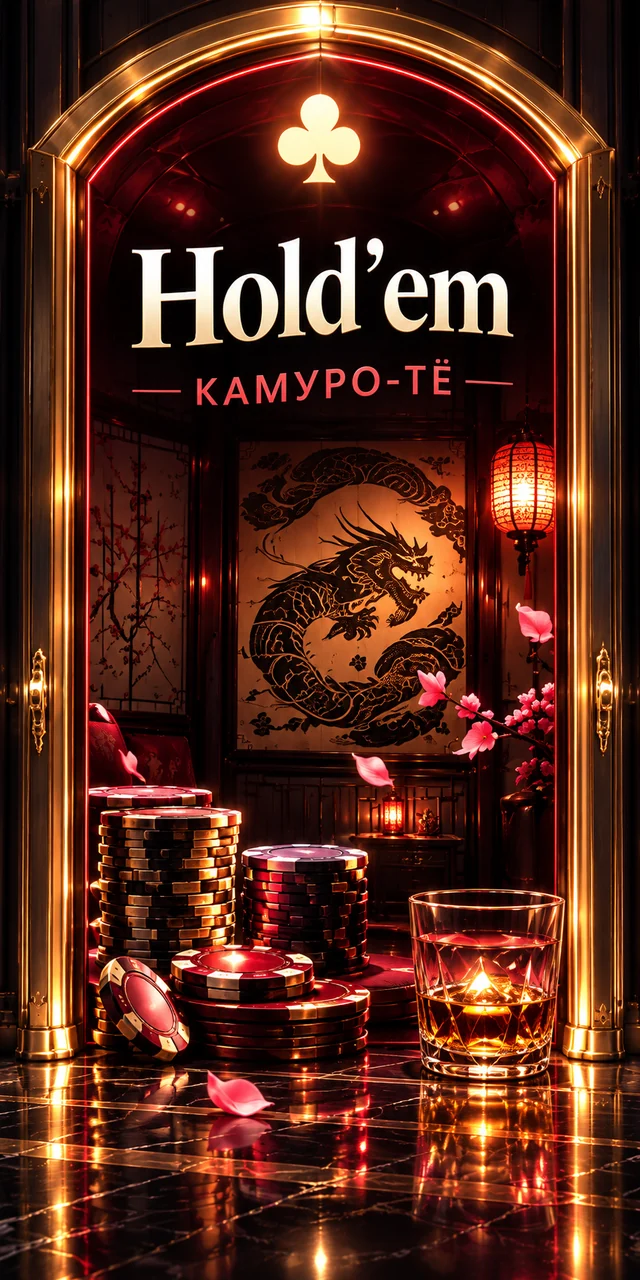
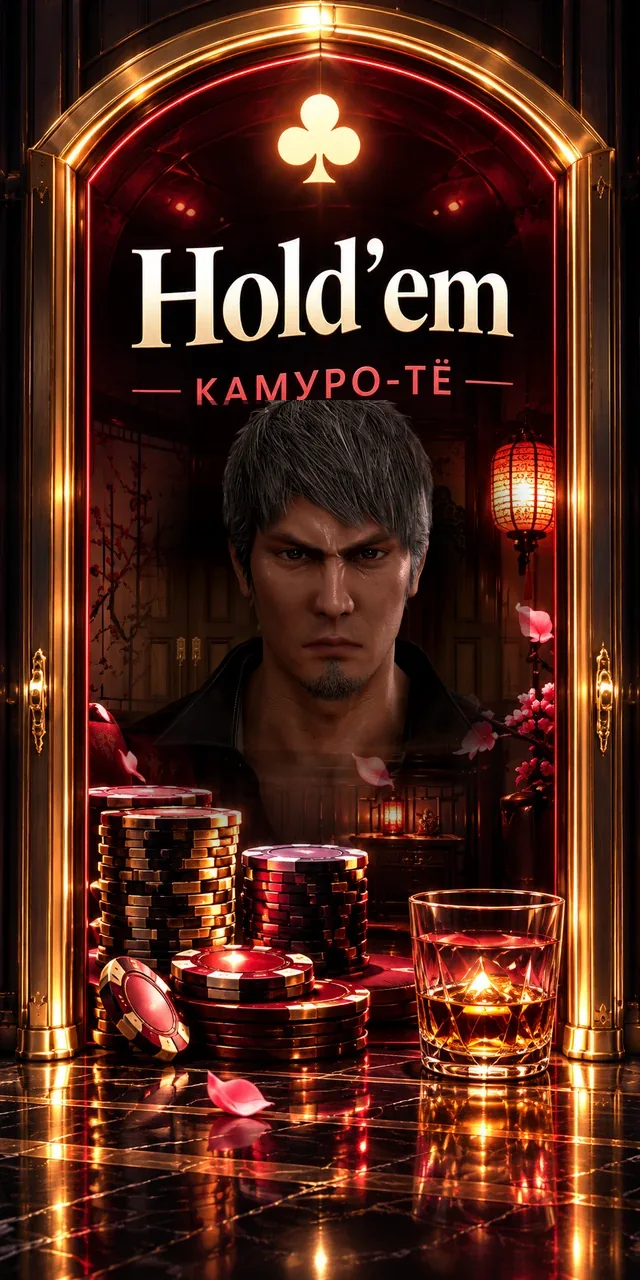
feat(miniapp): hub-style room shell, Blackjack scene and new portal heroes
Rooms get a full-screen animated scene per theme, a hub-style header with
balance pill, glass panels and the hub's pause and reduced-motion rules;
technical labels and the in-room ranking/history are removed. Blackjack
uses the approved police-perimeter backdrop with flashing lights and a
glowing table. Portals: Tachanka for Slot, Kiryu (Infinite Wealth) for
Hold'em.

Claude-Session: https://claude.ai/code/session_01RKNXNesPxZVxkKC6TQpiik

Changed region(s): [[0.1562, 0.3125, 0.8438, 0.6562]]

diff --git a/apps/miniapp/src/lib/components/RoomShell.svelte b/apps/miniapp/src/lib/components/RoomShell.svelte
@@ -1,11 +1,20 @@
+<script lang="ts" module>
+  export type RoomTheme = 'slot' | 'blackjack' | 'holdem';
+</script>
+
 <script lang="ts">
+  import { base } from '$app/paths';
   import type { MotionState } from '$lib/game/motion';
   import type { ConnectionStatus } from '$lib/state/session.svelte';
   import type { RoomSnapshot } from '$lib/state/room.svelte';
 
   export let room: RoomSnapshot;
+  export let theme: RoomTheme = 'slot';
   export let connection: ConnectionStatus = 'demo';
   export let motion: MotionState = 'idle';
+  export let balance = 0;
+  // Пауза из хаба или системное «уменьшить движение»: фон и эффекты замирают.
+  export let quiet = false;
   export let onBack: () => void = () => undefined;
   export let onResync: () => void = () => undefined;
 
@@ -16,44 +25,105 @@
     syncing: 'SYNC',
     offline: 'OFFLINE'
   } as const;
+
+  // Сцена каждой комнаты: фон из утверждённых концептов, концепция комнат не меняется.
+  const scenes: Record<RoomTheme, { kicker: string; title: string; backdrop: string | null }> = {
+    slot: { kicker: 'RAINBOW SIX · SIEGE', title: 'Slot Siege', backdrop: null },
+    blackjack: { kicker: 'GFL · SECTOR 09', title: 'Blackjack', backdrop: 'blackjack/room.webp' },
+    holdem: { kicker: '神室町 · HEADS-UP', title: 'Hold’em', backdrop: 'holdem/scene/kamurocho-gate.webp' }
+  };
+  $: scene = scenes[theme];
 </script>
 
-<main class="room-shell" data-motion={motion} data-testid="room-shell">
+<main class="room-shell theme-{theme}" class:quiet data-motion={motion} data-testid="room-shell" data-theme={theme} aria-label={room.title}>
+  <div class="scene" aria-hidden="true">
+    {#if scene.backdrop}<img class="backdrop" src={`${base}/${scene.backdrop}`} alt="" decoding="async" />{/if}
+    <div class="fx fx-a"></div>
+    <div class="fx fx-b"></div>
+    <div class="shade"></div>
+  </div>
+
   <header class="room-topbar">
-    <button class="icon-button" on:click={onBack} aria-label="Назад к комнатам">←</button>
+    <button class="back" on:click={onBack} aria-label="Назад к комнатам">
+      <img src={`${base}/hub/icons/arrow-right.svg`} width="22" height="22" alt="" />
+    </button>
     <div class="room-heading">
-      <span>ROOM · {room.rulesetVersion}</span>
-      <h1>{room.title}</h1>
+      <span>{scene.kicker}</span>
+      <h1>{scene.title}</h1>
     </div>
-    <button class="connection-button" on:click={onResync} data-testid="resync-button">
-      <span class:active={connection === 'connected'}></span>
-      {connectionLabel[connection]}
+    <button class="balance" on:click={onResync} data-testid="resync-button" aria-label={`Баланс ${balance} JG, ${connectionLabel[connection]}. Синхронизировать комнату`}>
+      <img src={`${base}/hub/icons/diamond.svg`} width="20" height="20" alt="" />
+      <span>
+        <small><i class:active={connection === 'connected'}></i>{connectionLabel[connection]}</small>
+        <strong>{balance.toLocaleString('ru-RU')} <em>JG</em></strong>
+      </span>
     </button>
   </header>
 
   <section class="room-stage">
-    <div class="stage-glow" aria-hidden="true"></div>
     <slot></slot>
   </section>
 </main>
 
 <style>
-  .room-shell { display: grid; gap: 14px; min-height: 100dvh; }
-  .room-topbar { display: grid; grid-template-columns: 40px 1fr auto; align-items: center; gap: 10px; }
-  .icon-button, .connection-button { border: 1px solid var(--line); border-radius: 12px; background: rgb(255 247 237 / 6%); color: var(--ivory); cursor: pointer; transition: transform 220ms var(--ease-smooth), border-color 220ms var(--ease-smooth), background 220ms var(--ease-smooth); will-change: transform; }
-  .icon-button:hover, .connection-button:hover { transform: translateY(-1px); border-color: rgb(231 187 112 / 42%); background: rgb(255 247 237 / 9%); }
-  .icon-button:active, .connection-button:active { transform: translateY(1px) scale(.99); }
-  .icon-button { width: 40px; height: 40px; font-size: 20px; }
+  .room-shell { position: relative; isolation: isolate; display: grid; align-content: start; gap: 14px; min-height: 100dvh; }
+
+  /* Сцена: фон во весь экран с медленным «дыханием», как в хабе. */
+  .scene, .scene > * { position: fixed; inset: 0; pointer-events: none; }
+  .scene { z-index: -1; overflow: hidden; background: #07090c; }
+  .backdrop { width: 100%; height: 100%; object-fit: cover; animation: scene-drift 28s ease-in-out infinite; }
+  .shade { background: linear-gradient(180deg, rgb(5 6 9 / 50%) 0%, rgb(5 6 9 / 12%) 28%, rgb(5 6 9 / 55%) 62%, rgb(5 6 9 / 90%) 100%); }
+
+  /* Blackjack: заброшенное здание за оцеплением, отсветы мигалок. */
+  .theme-blackjack .backdrop { object-position: 60% 50%; opacity: .95; filter: saturate(.95) brightness(1.08); }
+  .theme-blackjack .fx-a { background: radial-gradient(46% 20% at 30% 50%, rgb(255 40 60 / 34%), transparent 70%); animation: police-red 1.8s steps(1) infinite; }
+  .theme-blackjack .fx-b { background: radial-gradient(46% 20% at 72% 48%, rgb(50 110 255 / 34%), transparent 70%); animation: police-blue 1.8s steps(1) infinite; }
+
+  /* Slot Siege: тактический холод, дым и медленные лучи прожекторов. */
+  .theme-slot .scene { background: radial-gradient(120% 70% at 50% 0%, #1d2a33 0%, #0b1116 55%, #06090c 100%); }
+  .theme-slot .fx-a { inset: -30% -60%; background: conic-gradient(from 180deg at 50% 0%, transparent 0deg, rgb(205 228 240 / 10%) 8deg, transparent 18deg, transparent 340deg, rgb(205 228 240 / 8%) 350deg, transparent 360deg); animation: searchlight 14s ease-in-out infinite alternate; transform-origin: 50% 0%; }
+  .theme-slot .fx-b { background: radial-gradient(60% 30% at 20% 85%, rgb(170 190 200 / 12%), transparent 70%), radial-gradient(55% 28% at 80% 75%, rgb(170 190 200 / 10%), transparent 70%); filter: blur(18px); animation: smoke 22s ease-in-out infinite alternate; }
+
+  /* Hold'em: ворота Камуро-тё, мерцающий неон. */
+  .theme-holdem .backdrop { object-position: 50% 40%; opacity: .62; filter: blur(2px) saturate(1.1); transform: scale(1.06); }
+  .theme-holdem .fx-a { background: radial-gradient(70% 34% at 50% 18%, rgb(255 46 96 / 22%), transparent 70%); animation: neon 6s linear infinite; }
+  .theme-holdem .fx-b { background: radial-gradient(60% 30% at 50% 95%, rgb(201 162 74 / 16%), transparent 70%); }
+
+  .quiet .scene * { animation-play-state: paused; }
+
+  /* Шапка в стиле хаба. */
+  .room-topbar { display: grid; grid-template-columns: 44px minmax(0, 1fr) auto; align-items: center; gap: 10px; padding-top: env(safe-area-inset-top); }
+  .back { display: grid; place-items: center; width: 44px; height: 44px; border: 1px solid #b8955d; border-radius: 50%; background: #0a0e14c9; cursor: pointer; transition: transform .2s ease, background .2s ease; }
+  .back img { transform: rotate(180deg); }
+  .back:hover { background: #241b13; transform: translateX(-2px); }
+  .back:active { transform: scale(.94); }
   .room-heading { min-width: 0; }
-  .room-heading span { color: var(--muted); font-size: 9px; letter-spacing: 0.13em; }
-  h1 { margin: 3px 0 0; font-size: 20px; letter-spacing: -0.04em; }
-  .connection-button { display: inline-flex; align-items: center; gap: 7px; padding: 8px 10px; color: var(--muted-strong); font-size: 9px; font-weight: 800; letter-spacing: 0.09em; }
-  .connection-button span { width: 6px; height: 6px; border-radius: 50%; background: var(--brass-400); }
-  .connection-button span.active { background: var(--success); }
-  .room-stage { position: relative; display: grid; align-content: start; min-height: 580px; overflow: hidden; padding: 20px 15px 15px; border: 1px solid var(--line); border-radius: var(--radius-xl); background: linear-gradient(145deg, rgb(255 255 255 / 5%), rgb(255 255 255 / 1%)); box-shadow: var(--shadow-deep); }
-  .stage-glow { position: absolute; top: -100px; right: -70px; width: 240px; height: 240px; border-radius: 50%; background: rgb(143 53 89 / 23%); filter: blur(45px); pointer-events: none; animation: breathe 5s ease-in-out infinite; will-change: transform, opacity; }
-  .room-stage :global(.game-room) { animation: roomContentIn 420ms var(--ease-enter) both; }
-  @keyframes breathe { 0%, 100% { transform: scale(0.88); opacity: 0.6; } 50% { transform: scale(1.12); opacity: 1; } }
-  @keyframes roomContentIn { from { opacity: 0; transform: translate3d(0, 9px, 0); } to { opacity: 1; transform: translate3d(0, 0, 0); } }
-  @media (min-width: 720px) { .room-stage { padding: 30px; } }
+  .room-heading span { display: block; color: #f8d38b; font-size: 9px; font-weight: 700; letter-spacing: .2em; white-space: nowrap; overflow: hidden; text-overflow: ellipsis; }
+  h1 { margin: 3px 0 0; color: #fff1ca; font: 500 clamp(22px, 6.6vw, 30px)/1.05 Georgia, 'Times New Roman', serif; letter-spacing: -.03em; }
+  .balance { display: flex; align-items: center; gap: 8px; min-height: 44px; padding: 6px 12px 6px 10px; border: 1px solid #b8955d; border-radius: 22px; background: #0c0f16e6; color: #fff4d9; cursor: pointer; transition: transform .2s ease, box-shadow .2s ease; }
+  .balance:hover { box-shadow: 0 0 18px #d5903b44; }
+  .balance:active { transform: scale(.97); }
+  .balance > span { display: grid; gap: 3px; text-align: left; }
+  .balance small { display: flex; align-items: center; gap: 5px; color: #d8d1da; font-size: 8px; letter-spacing: .08em; }
+  .balance i { width: 6px; height: 6px; border-radius: 50%; background: #e7bb70; }
+  .balance i.active { background: #8ee4b6; box-shadow: 0 0 6px #8ee4b6; }
+  .balance strong { font-size: 15px; line-height: 1; white-space: nowrap; }
+  .balance em { color: #f8d38b; font-size: 11px; font-style: normal; }
+
+  /* Сцена игры — без глухой карточки: комната «висит» на фоне. */
+  .room-stage { position: relative; display: grid; align-content: start; }
+  .room-stage :global(.game-room) { animation: roomContentIn 460ms cubic-bezier(.2, .8, .2, 1) both; }
+
+  @keyframes scene-drift { 0%, 100% { transform: scale(1.04) translate3d(0, 0, 0); } 50% { transform: scale(1.08) translate3d(-1.5%, -1%, 0); } }
+  @keyframes police-red { 0%, 49% { opacity: 1; } 50%, 100% { opacity: .15; } }
+  @keyframes police-blue { 0%, 49% { opacity: .15; } 50%, 100% { opacity: 1; } }
+  @keyframes searchlight { from { transform: rotate(-14deg); } to { transform: rotate(14deg); } }
+  @keyframes smoke { from { transform: translate3d(-4%, 0, 0) scale(1); } to { transform: translate3d(4%, -3%, 0) scale(1.12); } }
+  @keyframes neon { 0%, 100% { opacity: .85; } 46% { opacity: .85; } 47% { opacity: .35; } 48% { opacity: .9; } 72% { opacity: .7; } }
+  @keyframes roomContentIn { from { opacity: 0; transform: translate3d(0, 14px, 0) scale(.985); } to { opacity: 1; transform: none; } }
+
+  @media (prefers-reduced-motion: reduce) {
+    .scene *, .room-stage :global(.game-room) { animation: none !important; }
+    .back, .balance { transition: none; }
+  }
 </style>

diff --git a/apps/miniapp/src/lib/rooms/BlackjackRoom.svelte b/apps/miniapp/src/lib/rooms/BlackjackRoom.svelte
@@ -98,11 +98,6 @@
   $: playerTotal = intOrNull(ps.player_total);
   $: dealerTotal = 'dealer_total' in ps ? intOrNull(ps.dealer_total) : null;
   $: walletBalance = intOrNull(ps.wallet_balance);
-  $: ruleset =
-    typeof ps.ruleset_version === 'string'
-      ? (ps.ruleset_version as string)
-      : (snapshot?.rulesetVersion ?? 'blackjack-gfl-skeleton-1');
-  $: stateVersion = snapshot?.stateVersion ?? 0;
 
   // Номер раздачи: сервер его не присылает, считаем по входу в новую игру из ожидания/итога.
   // Карты привязаны к нему ключом — на каждой раздаче они монтируются заново и снова «прилетают».
@@ -190,8 +185,6 @@
 >
   <div class="room-intro">
     <div>
-      <span class="room-kicker">GFL POST-COLLAPSE · SECTOR 09 PERIMETER</span>
-      <h2>Blackjack</h2>
       <p>{isDemo ? 'Заброшенный корпус за полицейским периметром. Демо-раздачу и результат показывает клиент.' : 'Заброшенный корпус за полицейским периметром. Раздаёт только сервер.'}</p>
     </div>
     <span class="bet-chip" data-testid="blackjack-wallet">
@@ -343,7 +336,6 @@
   {/if}
 
   <div class="bj-status" data-testid="blackjack-status" aria-live="polite">
-    <span>PHASE {gamePhase} · {ruleset} · v{stateVersion}</span>
     <strong>
       {busy
         ? isDemo ? 'Ход демо-раунда' : 'Ожидаем сервер…'
@@ -383,14 +375,14 @@
 
 <style>
   .game-room { position: relative; z-index: 1; display: grid; gap: 14px; }
-  .room-intro { display: flex; justify-content: space-between; gap: 18px; }
-  .room-kicker { color: #78d3a2; font-size: 9px; font-weight: 800; letter-spacing: 0.13em; }
-  h2 { margin: 6px 0 5px; font-size: clamp(27px, 8vw, 38px); letter-spacing: -0.06em; }
-  p { max-width: 250px; margin: 0; color: var(--muted); font-size: 12px; line-height: 1.45; }
-  .bet-chip { height: fit-content; padding: 7px 9px; border: 1px solid rgb(142 228 182 / 30%); border-radius: 999px; color: #a4f0c4; font-size: 10px; font-weight: 800; white-space: nowrap; }
+  .room-intro { display: flex; align-items: center; justify-content: space-between; gap: 14px; }
+  p { max-width: 260px; margin: 0; color: #d6d0c8; font-size: 12px; line-height: 1.45; text-shadow: 0 1px 6px rgb(0 0 0 / 80%); }
+  .bet-chip { height: fit-content; padding: 7px 10px; border: 1px solid rgb(142 228 182 / 40%); border-radius: 999px; background: rgb(6 20 18 / 70%); color: #a4f0c4; font-size: 10px; font-weight: 800; white-space: nowrap; backdrop-filter: blur(8px); }
   .perimeter-tape { overflow: hidden; border-radius: 8px; background: repeating-linear-gradient(-45deg, #e7bb70 0 14px, #14141c 14px 28px); padding: 3px; }
   .perimeter-tape span { display: block; padding: 5px 10px; border-radius: 6px; background: rgb(11 11 17 / 88%); color: #e7bb70; font-size: 9px; font-weight: 800; letter-spacing: 0.16em; text-align: center; }
-  .felt-table { position: relative; display: grid; align-content: space-between; gap: 14px; min-height: 368px; overflow: hidden; padding: 25px 20px; border: 1px solid rgb(142 228 182 / 32%); border-radius: 42% / 18%; background: radial-gradient(ellipse at 50% 18%, rgb(58 74 92 / 55%), transparent 55%), radial-gradient(ellipse at center, #174a40, #0a2829 72%); box-shadow: inset 0 0 40px rgb(0 0 0 / 40%), 0 18px 42px rgb(0 0 0 / 25%); }
+  .felt-table { position: relative; display: grid; align-content: space-between; gap: 14px; min-height: 368px; overflow: hidden; padding: 25px 20px; border: 1px solid rgb(142 228 182 / 38%); border-radius: 42% / 18%; background: radial-gradient(ellipse at 50% 18%, rgb(58 74 92 / 45%), transparent 55%), radial-gradient(ellipse at center, rgb(23 74 64 / 88%), rgb(10 40 41 / 92%) 72%); box-shadow: inset 0 0 40px rgb(0 0 0 / 40%), 0 0 0 1px rgb(0 0 0 / 30%), 0 18px 50px rgb(0 0 0 / 55%), 0 0 60px rgb(64 196 150 / 14%); backdrop-filter: blur(6px); }
+  /* Медленный блик по сукну — как живой свет лампы над столом. */
+  .felt-table::after { content: ''; position: absolute; inset: -40% -60%; background: linear-gradient(105deg, transparent 42%, rgb(255 240 200 / 7%) 50%, transparent 58%); animation: feltSheen 9s ease-in-out infinite; pointer-events: none; }
   .table-orbit { position: absolute; inset: 16px; border: 1px solid rgb(142 228 182 / 12%); border-radius: 42% / 20%; pointer-events: none; }
   .orbit-two { inset: 28px; border-color: rgb(231 187 112 / 12%); }
   .dealer-line { position: relative; z-index: 1; display: flex; align-items: center; gap: 9px; justify-self: center; padding: 6px 12px 6px 6px; border: 1px solid rgb(255 247 237 / 16%); border-radius: 999px; background: rgb(11 11 17 / 55%); color: rgb(255 247 237 / 80%); font-size: 9px; font-weight: 800; letter-spacing: 0.12em; }
@@ -426,16 +418,18 @@
   .total { color: rgb(255 247 237 / 72%); font-size: 13px; font-weight: 800; }
   .total.bright { color: var(--brass-300); }
   .table-mark { position: absolute; top: 50%; left: 50%; color: rgb(231 187 112 / 15%); font-size: 58px; font-weight: 800; transform: translate(-50%, -50%); }
-  .bet-panel { --bet-accent: var(--brass-300); --bet-line: var(--line); --bet-ink: var(--ivory); display: grid; gap: 10px; padding: 13px 14px; border: 1px solid var(--line); border-radius: var(--radius-md); background: rgb(255 247 237 / 4%); }
+  .bet-panel { --bet-accent: var(--brass-300); --bet-line: rgb(255 247 237 / 16%); --bet-ink: var(--ivory); display: grid; gap: 10px; padding: 14px; border: 1px solid rgb(231 187 112 / 26%); border-radius: 20px; background: rgb(10 12 16 / 72%); backdrop-filter: blur(12px); box-shadow: 0 14px 40px rgb(0 0 0 / 45%); }
   .bet-hint { max-width: none; color: #ff9cae; font-size: 11px; }
   .deal-action { min-height: 52px; border: 0; border-radius: 15px; background: linear-gradient(120deg, var(--brass-300), #c98f4e); color: #2a1820; font: inherit; font-size: 14px; font-weight: 850; cursor: pointer; }
   .deal-action:disabled { cursor: not-allowed; filter: saturate(0.6); opacity: 0.75; }
   .action-grid { display: grid; grid-template-columns: repeat(3, 1fr); gap: 8px; }
-  .action-grid button { min-height: 54px; border: 1px solid var(--line); border-radius: 13px; background: rgb(255 247 237 / 6%); color: var(--ivory); font-weight: 800; font-size: 13px; cursor: pointer; transition: transform 160ms ease, border-color 160ms ease; }
+  .action-grid button { min-height: 58px; border: 1px solid rgb(255 247 237 / 18%); border-radius: 16px; background: rgb(10 12 16 / 72%); color: var(--ivory); font-weight: 800; font-size: 14px; letter-spacing: .04em; cursor: pointer; backdrop-filter: blur(10px); transition: transform 180ms ease, border-color 180ms ease, box-shadow 180ms ease, background 180ms ease; }
+  .action-grid button:hover:not(:disabled) { transform: translateY(-2px); border-color: rgb(231 187 112 / 60%); box-shadow: 0 6px 22px rgb(213 144 59 / 28%); }
+  .action-grid button:active:not(:disabled) { transform: translateY(1px) scale(.97); }
   .action-grid button small { display: block; color: var(--muted); font-size: 9px; font-weight: 700; }
   .action-grid button:disabled { cursor: wait; opacity: 0.65; }
-  .action-grid .action-primary { border-color: rgb(231 187 112 / 55%); }
-  .bj-status { display: flex; align-items: center; justify-content: space-between; gap: 10px; color: var(--muted); font-size: 9px; font-weight: 800; letter-spacing: 0.08em; text-transform: uppercase; }
+  .action-grid .action-primary { border-color: rgb(231 187 112 / 70%); background: linear-gradient(180deg, rgb(239 192 107 / 22%), rgb(10 12 16 / 75%)); box-shadow: 0 0 18px rgb(213 144 59 / 22%); }
+  .bj-status { display: flex; align-items: center; justify-content: center; gap: 10px; color: var(--muted); font-size: 9px; font-weight: 800; letter-spacing: 0.08em; text-transform: uppercase; }
   .bj-status strong { color: var(--brass-300); }
   .demo-note { max-width: none; padding: 10px 12px; border: 1px dashed rgb(231 187 112 / 48%); border-radius: 12px; background: rgb(231 187 112 / 8%); color: var(--brass-300); font-size: 11px; font-weight: 800; line-height: 1.45; }
   .bj-error { max-width: none; padding: 11px 12px; border: 1px solid rgb(255 156 174 / 45%); border-radius: 12px; background: rgb(255 156 174 / 8%); color: #ffc2cd; font-size: 11px; line-height: 1.45; }
@@ -449,13 +443,13 @@
   .settle-balance { color: var(--success); font-size: 9px; font-weight: 800; letter-spacing: 0.1em; }
   .rules-line { max-width: none; color: var(--muted); font-size: 10px; letter-spacing: 0.04em; }
   button:focus-visible { outline: 2px solid var(--brass-300); outline-offset: 3px; }
+  @keyframes feltSheen { 0%, 100% { transform: translateX(-30%); } 50% { transform: translateX(30%); } }
   @keyframes dealCard {
     from { opacity: 0; transform: translate3d(0, calc(-22px + var(--card-offset)), 0) rotate(calc(var(--card-rotation) - 8deg)) scale(0.92); }
     to { opacity: 1; transform: translate3d(0, var(--card-offset), 0) rotate(var(--card-rotation)) scale(1); }
   }
   @media (max-width: 390px) {
     .playing-card { width: 96px; }
-    .action-grid { grid-template-columns: 1fr; }
   }
   @media (min-width: 720px) {
     .playing-card { width: 118px; }
@@ -463,5 +457,6 @@
   @media (prefers-reduced-motion: reduce) {
     .playing-card { animation: none; }
     .action-grid button { transition: none; }
+    .felt-table::after { animation: none; }
   }
 </style>

diff --git a/apps/miniapp/src/lib/components/ResultBand.svelte b/apps/miniapp/src/lib/components/ResultBand.svelte
@@ -14,7 +14,7 @@
       ? 'DEMO ROUND · БЕЗ СЕРВЕРНОГО ПОДТВЕРЖДЕНИЯ'
       : result
         ? `RESOLVING · ${source === 'live' ? 'SERVER' : 'DEMO'} RESULT`
-        : 'RESULT BAND';
+        : 'ИТОГ РАУНДА';
   $: resultHeadline = hasSettledResult
     ? result?.headline
     : result
@@ -40,8 +40,8 @@
     </div>
     {#if hasSettledResult && result?.amount !== undefined}
       <span class="result-amount">{result.amount > 0 ? '+' : ''}{result.amount} <small>JG</small></span>
-    {:else}
-      <span class="result-state">{hasSettledResult ? motion.toUpperCase() : 'RESOLVING'}</span>
+    {:else if result}
+      <span class="result-state" aria-hidden="true"><i></i><i></i><i></i></span>
     {/if}
   </div>
   {#if isServerConfirmed && result?.slotOutcome}
@@ -50,16 +50,22 @@
 </section>
 
 <style>
-  .result-band { display: grid; gap: 8px; padding: 13px 15px; border: 1px solid var(--line); border-radius: var(--radius-md); background: rgb(255 247 237 / 4%); transition: border-color 240ms var(--ease-smooth), background 240ms var(--ease-smooth), transform 240ms var(--ease-smooth); will-change: transform; }
-  .result-band.settled { border-color: rgb(231 187 112 / 48%); background: linear-gradient(105deg, rgb(231 187 112 / 13%), rgb(143 53 89 / 10%)); transform: translateY(-1px); }
-  .result-band.settled { animation: resultConfirmIn 420ms var(--ease-enter) both; }
+  .result-band { display: grid; gap: 8px; padding: 14px 16px; border: 1px solid rgb(255 247 237 / 14%); border-radius: 20px; background: rgb(10 12 16 / 72%); backdrop-filter: blur(12px); box-shadow: 0 14px 40px rgb(0 0 0 / 40%); transition: border-color 240ms var(--ease-smooth), box-shadow 240ms var(--ease-smooth), transform 240ms var(--ease-smooth); }
+  .result-band.settled { border-color: rgb(231 187 112 / 60%); background: linear-gradient(105deg, rgb(231 187 112 / 16%), rgb(10 12 16 / 78%) 60%); box-shadow: 0 0 34px rgb(213 144 59 / 26%), 0 14px 40px rgb(0 0 0 / 40%); animation: resultConfirmIn 460ms var(--ease-enter) both; }
   .result-kicker { color: var(--brass-300); font-size: 9px; font-weight: 800; letter-spacing: 0.15em; }
   .result-row { display: flex; align-items: center; justify-content: space-between; gap: 12px; }
-  strong { font-size: 14px; }
-  p { margin: 3px 0 0; color: var(--muted); font-size: 11px; }
-  .result-amount { color: var(--brass-300); font-size: 19px; font-weight: 800; white-space: nowrap; }
+  strong { font-size: 15px; }
+  p { margin: 3px 0 0; color: #c9c3bb; font-size: 11px; }
+  .result-amount { color: #ffd98f; font-size: 22px; font-weight: 800; white-space: nowrap; text-shadow: 0 0 16px rgb(239 192 107 / 55%); animation: amountPop 520ms var(--ease-spring) both; }
   .result-amount small { font-size: 10px; letter-spacing: 0.12em; }
   .confirmed-balance { color: var(--success); font-size: 9px; font-weight: 800; letter-spacing: 0.1em; }
-  .result-state { color: var(--muted); font-size: 10px; font-weight: 800; letter-spacing: 0.1em; }
-  @keyframes resultConfirmIn { from { opacity: .68; transform: translate3d(0, 7px, 0); } to { opacity: 1; transform: translate3d(0, -1px, 0); } }
+  /* Ожидание исхода: три бегущие точки вместо служебного RESOLVING. */
+  .result-state { display: inline-flex; gap: 5px; }
+  .result-state i { width: 6px; height: 6px; border-radius: 50%; background: var(--brass-300); animation: waitDot 1s ease-in-out infinite; }
+  .result-state i:nth-child(2) { animation-delay: .15s; }
+  .result-state i:nth-child(3) { animation-delay: .3s; }
+  @keyframes resultConfirmIn { from { opacity: .6; transform: translate3d(0, 8px, 0) scale(.985); } to { opacity: 1; transform: none; } }
+  @keyframes amountPop { 0% { opacity: 0; transform: scale(.6); } 70% { opacity: 1; transform: scale(1.12); } 100% { transform: scale(1); } }
+  @keyframes waitDot { 0%, 100% { opacity: .25; transform: translateY(0); } 50% { opacity: 1; transform: translateY(-3px); } }
+  @media (prefers-reduced-motion: reduce) { .result-band, .result-amount, .result-state i { animation: none; } }
 </style>

diff --git a/apps/miniapp/src/routes/+page.svelte b/apps/miniapp/src/routes/+page.svelte
@@ -644,7 +644,7 @@
 <div class="app-shell" class:hub-mode={!selectedGame || !roomState.snapshot}>
   {#if selectedGame && roomState.snapshot}
     <div class="room-entry" in:fade={{duration:session.reducedMotion || hubMotionPaused ? 0 : 180}}>
-    <RoomShell room={roomState.snapshot} connection={session.connection} motion={roomState.motion} onBack={backToRooms} onResync={resync}>
+    <RoomShell room={roomState.snapshot} theme={selectedGame} connection={session.connection} motion={roomState.motion} balance={session.balance} quiet={session.reducedMotion || hubMotionPaused} onBack={backToRooms} onResync={resync}>
       {#if selectedGame === 'slot'}
         <SlotRoom motion={roomState.motion} result={roomState.result} busy={isRunning} balance={session.balance} onAction={runAction} resultSource={liveApiEnabled ? 'live' : 'demo'} rulesetVersion={roomState.snapshot.rulesetVersion} publicState={roomState.snapshot.publicState} />
       {:else if selectedGame === 'blackjack'}
@@ -675,10 +675,6 @@
         </svelte:fragment>
       </HubLobby>
     </div>
-  {/if}
-  {#if selectedGame && roomState.snapshot}
-  <Leaderboard apiClient={ledgerReady ? apiClient : null} live={liveApiEnabled} revision={ledgerRevision} />
-  <LedgerHistory apiClient={ledgerReady ? apiClient : null} live={liveApiEnabled} revision={ledgerRevision} />
   {/if}
 </div>
 

diff --git a/apps/miniapp/tests/e2e/ledger-history.spec.ts b/apps/miniapp/tests/e2e/ledger-history.spec.ts
@@ -116,6 +116,10 @@ test('rereads after confirmed game actions even before a round has settled', asy
   await page.getByTestId('hub-nav-play').click();
   await openRoom(page, 'blackjack');
   await page.getByTestId('blackjack-deal').click();
+  await expect(page.getByTestId('blackjack-room')).toHaveAttribute('data-game-phase', 'player_turn');
+  // История живёт в хабе: возвращаемся и открываем вкладку «История».
+  await page.getByRole('button', { name: 'Назад к комнатам' }).click();
+  await page.getByTestId('hub-nav-history').click();
   await expect(page.getByTestId('ledger-entry')).toHaveCount(2);
   await expect(page.getByTestId('ledger-history')).toContainText('Баланс после: 975 JG');
 });

diff --git a/apps/miniapp/tests/e2e/slot-stop.spec.ts b/apps/miniapp/tests/e2e/slot-stop.spec.ts
@@ -333,7 +333,7 @@ test.describe('Slot v2 stop continuity', () => {
 
     await page.getByTestId('resync-button').click();
     await expect(page.getByTestId('room-shell')).toHaveAttribute('data-motion', 'settle');
-    await expect(page.getByTestId('resync-button')).toHaveText('LIVE');
+    await expect(page.getByTestId('resync-button')).toContainText('LIVE');
     await expect(page.getByTestId('result-band')).toContainText('SERVER CONFIRMED · LIVE');
     await expect(page.getByTestId('slot-confirmed-grid')).toBeVisible();
     await expect(page.getByTestId('confirmed-balance')).toContainText('BALANCE 1010 JG');

diff --git a/apps/miniapp/tests/e2e/reconnect.spec.ts b/apps/miniapp/tests/e2e/reconnect.spec.ts
@@ -7,7 +7,7 @@ test('resync returns to a stable room snapshot', async ({ page }) => {
 
   await expect(page.getByTestId('room-shell')).toBeVisible();
   await page.getByTestId('resync-button').click();
-  await expect(page.getByTestId('resync-button')).toHaveText('DEMO');
+  await expect(page.getByTestId('resync-button')).toContainText('DEMO');
   await expect(page.getByTestId('room-shell')).toHaveAttribute('data-motion', 'idle');
   await expect(
     page.getByTestId('room-shell').getByRole('heading', { name: 'Камуро-тё', level: 2 })

diff --git a/dev/ProjectLog.md b/dev/ProjectLog.md
@@ -674,3 +674,11 @@
 - Blackjack: портрет куклы-дилера вместо буквы; убраны подпись «GFL DOSSIER · DECK A» и штамп «S09 / РУБАШКА A» (решение владельца отменяет замечание review #89); карты привязаны к номеру раздачи — на повторной раздаче монтируются заново и снова проигрывают анимацию сдачи, портреты грузятся сразу (`eager`).
 - Хаб: заголовок «Где сегодня сливаем хату?».
 - Проверки: `ruff check` — passed; `pytest -q` — 262 passed, 14 skipped; `pnpm miniapp:check` — 0/0; `pnpm miniapp:test` — 46 passed; Playwright — 57 passed (новые: повторная раздача пересоздаёт карты, портрет дилера, ставка до баланса).
+
+## 2026-10-14 — комнаты в стиле хаба: оболочка и Blackjack; порталы Тачанка и Кирю
+
+- Поручение владельца: «все три комнаты привести к виду хаба, не меняя их концепцию»; рейтинг и история из комнат убраны (решение владельца). Claude Code (claude-opus-5-5), этап 1 из 3.
+- `RoomShell.svelte`: тема комнаты, сцена во весь экран с «дыханием» (Blackjack — утверждённый `room-police-perimeter` → `static/blackjack/room.webp`, мигалки; Slot — дым и прожекторы на CSS; Hold'em — ворота Камуро-тё с неоном), шапка как в хабе (назад, название, баланс-«пилюля» = `resync-button`), пауза хаба и reduced motion останавливают фон. `ResultBand`: без «RESULT BAND/RESOLVING», ожидание — точки, выплата «выпрыгивает»; тексты подтверждения сервера сохранены.
+- Blackjack: убраны дубль заголовка и строка «PHASE … v…», стол со свечением и бликом, кнопки действий в один ряд со стеклом и откликом.
+- Порталы хаба (поручение владельца): Slot — Тачанка, Hold'em — Кирю из Like a Dragon: Infinite Wealth; собраны из прежних порталов и портретов из наборов проекта (Ubisoft / SEGA RGG, некоммерческий фан-интерфейс), происхождение — `static/hub/sources.json`.
+- Проверки: `pnpm miniapp:check` — 0/0; `pnpm miniapp:test` — 46 passed; Playwright — 60 passed; скриншоты 390px проверены.

diff --git a/ChangeLog.md b/ChangeLog.md
@@ -2,6 +2,8 @@
 
 ## Unreleased
 
+- Rooms now share the hub's look: a full-screen animated scene per room (Blackjack: the approved abandoned building behind the police perimeter with flashing police lights; Slot: tactical smoke and searchlights; Hold'em: the Kamurocho gate with neon flicker), a hub-style header with back button and balance pill, glass panels, and the same pause and reduced-motion behaviour. Technical labels are gone, the result band waits with animated dots and pops the payout, and ranking and history now live only in the hub. Blackjack gets a glowing table with a light sheen and a single row of actions. The Slot portal now features Tachanka and the Hold'em portal Kazuma Kiryu (Like a Dragon: Infinite Wealth).
+
 - Bets now go up to the whole balance: five standard amounts (slot 10/25/50/100/250, Blackjack 25/50/100/250/500) plus a separate custom slider and field from the minimum to the current balance; the server cap rose from 100 JG to a technical 1,000,000 JG with the wallet still rejecting stakes above the balance. Blackjack shows the dealer T-Doll portrait, drops the deck and card-back captions, and replays the deal animation on every new hand instead of swapping card images. The hub headline now reads «Где сегодня сливаем хату?» with the subtitle «Три комнаты. Везде дилер мудак.»
 
 - New Siege slot rooms use ruleset `slot-siege-2` with 9 paylines (all 7 rows plus two diagonals) at the same 10-100 JG stake per spin and the same paytable; reel strips were rebalanced to keep RTP at about 96.3% (exact 0.9627, Monte Carlo 0.959), with winning spins rising from 31% to 44%. Rooms already on `slot-siege-1` keep their three lines. The spin button now stays disabled until the previous result has fully settled, so a quick tap can no longer start reels without a server request.
